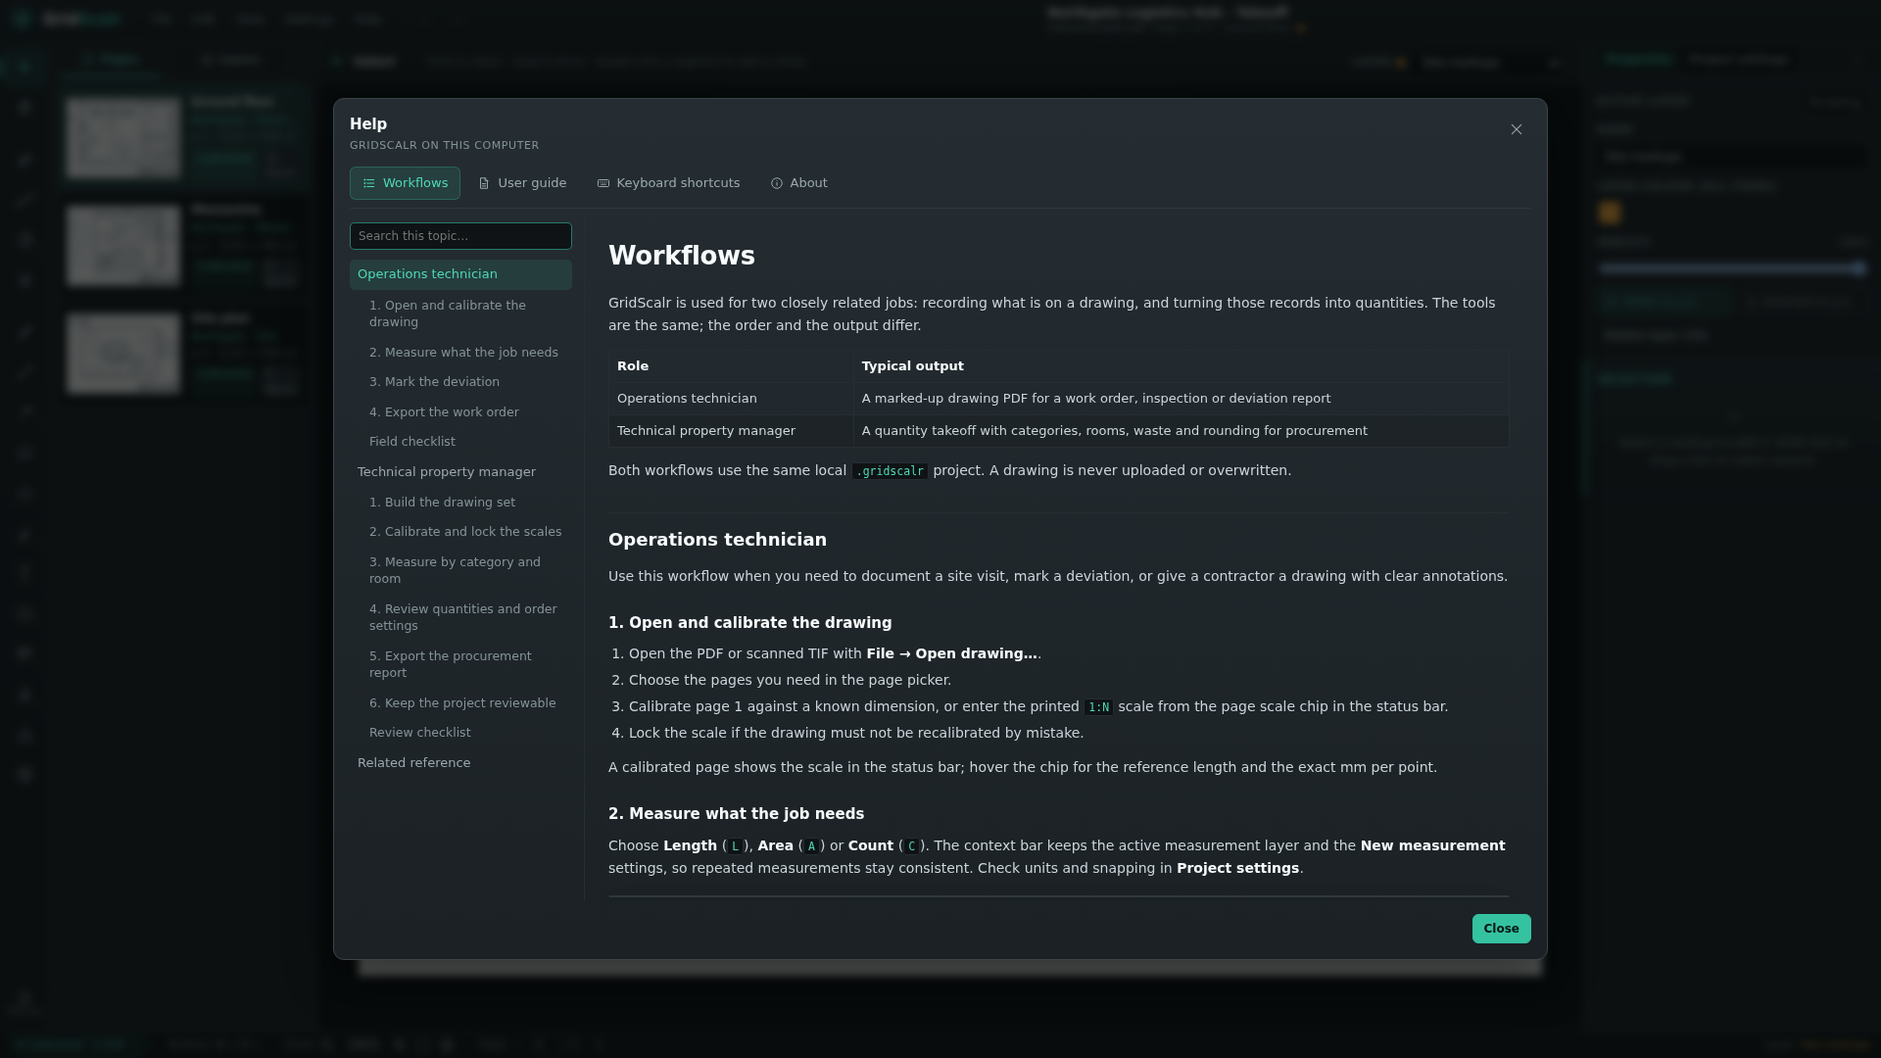
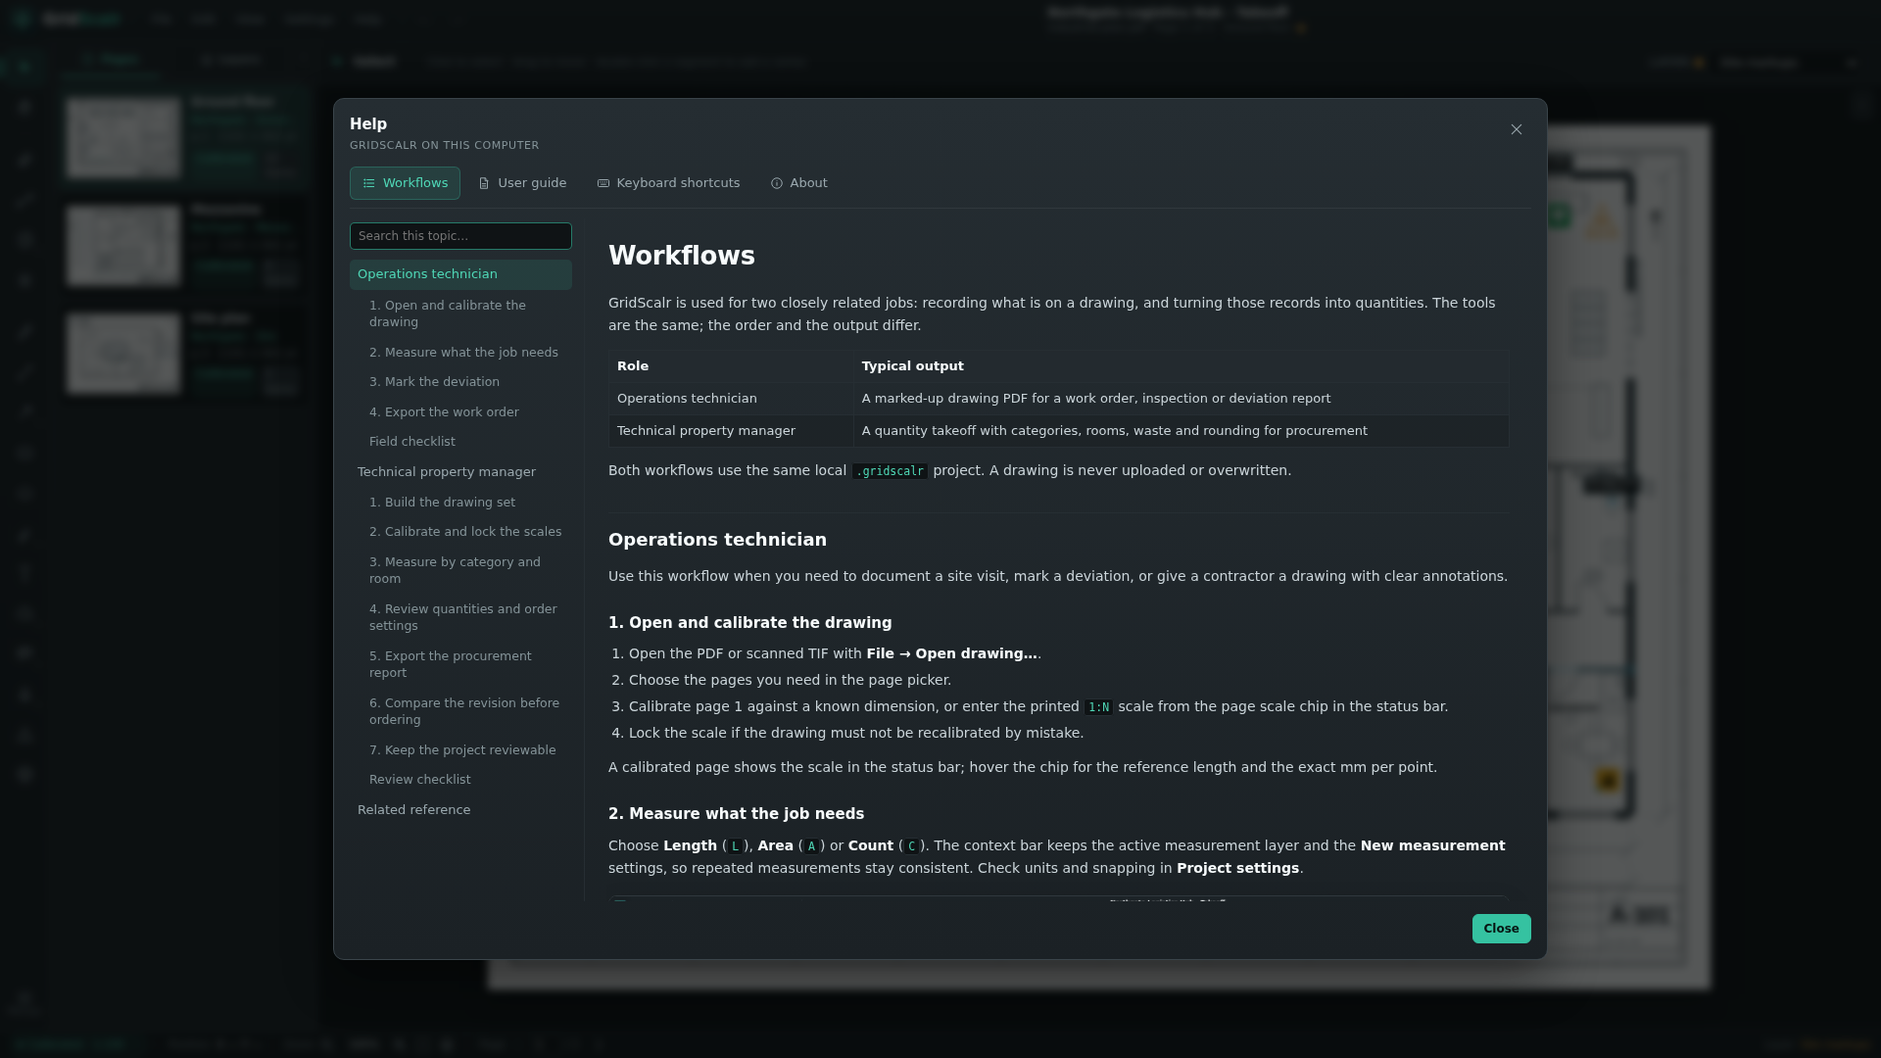
docs: document revision comparison and refresh screenshots

Changed region(s): [[0.1875, 0.0917, 1.0, 0.9472], [0.1875, 0.6417, 0.2812, 0.7639]]

diff --git a/AGENTS.md b/AGENTS.md
@@ -8,7 +8,7 @@ Persistent working instructions for agents and maintainers of GridScalr. Read th
 - Frontend: TypeScript, HTML5 Canvas, PDF.js, Vite. No UI framework.
 - Desktop shell: Rust/Tauri 2.
 - Repository: `https://github.com/MajorJohnDoe/gridscalr` (public).
-- Current app version: `0.7.3`.
+- Current app version: `0.8.0`.
 - Current project-file schema: `16`.
 - Milestones 1–5 are complete. Milestone 2A added categories, rooms, the count tool, deduction areas, the quantities panel, and measurement bulk edits. Milestone 2B added waste, rounding, order quantities, and quantity CSV/PDF reports. Milestone 3A added quick areas, manual scale, per-page scale locks, and markup snapping. Milestone 3B added the drawing export dialog with page ranges, crop areas, layer selection, labels, calibration, and a legend. Milestone 4 added embedded PNG/JPEG images, background and annotation modes, image handles, opacity, rotation, and image-aware PDF export. Milestone 5 added scanned TIF import as lossless CCITT G3/G4 pages, multiple source documents per project, append-only page numbering, and schema v6.
 
@@ -179,6 +179,7 @@ src/app/App.ts             app wiring, file flows, shortcuts
 src/app/exportFlows.ts     CSV, XLSX, PDF, PNG and JSON export orchestration
 src/canvas/CanvasView.ts   rendering, hit testing, inline editing, resize/rotate, PNG composition
 src/canvas/viewport.ts     pure page/screen transforms, fit, zoom and split-view synchronization
+src/compare/               session reference loading, item matching and revision diff
 src/canvas/geometry.ts     crop, handle, rotation and colour helpers
 src/canvas/selectionHandles.ts selection and rotation handles
 src/canvas/annotationDraw.ts callout, stamp, cloud-label and endpoint drawing
@@ -195,6 +196,7 @@ src/pdf/pdfRenderer.ts     PDF.js lifecycle and progressive page rendering
 src/pdf/thumbnails.ts      on-demand, cached page previews for the Pages panel
 src/pdf/pdfExport.ts       flattened vector PDF export
 src/pdf/reportPdf.ts       print-friendly A4 quantity report
+src/pdf/comparePdf.ts      side-by-side comparison PDF with visuals and diff tables
 src/report/                pure report model, shared table rows, CSV and XLSX serialization
 src/ui/                    shell, top menu, sidebar, page/layer lists, inspector, dialogs, status bar
 src/styles/help.css        help dialog, search, TOC and image lightbox
@@ -211,7 +213,8 @@ src/ui/itemIcon.ts         icon lookup shared by Layers and Markups
 src/ui/shortcuts.json      single source for tool and application shortcuts
 src/ui/shortcuts.ts        typed shortcut maps and platform formatting
 src/ui/statusBar.ts        page scale menu, cursor position and layer status
-src/ui/splitView.ts        synchronized read-only reference pane and divider
+src/ui/splitView.ts        synchronized read-only reference pane, comparison mode and divider
+src/ui/comparePanel.ts     revision summary, filters, difference list and controls
 src/ui/welcome.ts          empty-project welcome screen and recent files
 src/ui/pageImportDialog.ts page picker with previews for PDF/TIF import
 src/ui/topMenu.ts          File/Edit/View/Settings/Help menu and keyboard navigation
@@ -257,7 +260,7 @@ When adding a layer or item operation, put lock and visibility semantics in `src
 
 ## Testing and fixtures
 
-- `npm test -- --run` runs the Vitest suite, including viewport math and XLSX package generation.
+- `npm test -- --run` runs the Vitest suite, including viewport math, revision matching and XLSX package generation.
 - `npm run test:ui` runs the Playwright smoke test against the browser fallback.
 - `npm run test:canvas` runs pointer-level canvas regressions for draw, resize, rotate, text, hidden/locked items, crop and split view.
 - `npm run bench:history` runs the synthetic undo/history benchmark. Use `GRIDSCALR_BENCH_ITEMS=5000` for a larger project.
@@ -287,6 +290,7 @@ When adding a layer or item operation, put lock and visibility semantics in `src
 - **0.7.2:** complete — new application icon (measured area on a gridded plate), a regenerated demo project on schema 14, a public README, MIT license and third-party notices, and the community files. No schema change; the schema remains v14.
 - **0.7.3:** complete — synchronized read-only split view, a shared quantity/markup row model, and a six-sheet XLSX quantity workbook. The documentation now reflects schema 16. No schema change; the schema remains v16.
 - **0.7.1:** complete — the right panel gains **Properties** and **Project settings** buttons plus a restore tab when collapsed, the duplicate measurement units moved out of Properties, the layer explanation removed, and the redundant image and Canvas buttons removed from the context bar. Includes the 0.7.0 work: stamp and symbol corner resizing, schema 14 with optional `symbolSize` (missing means 24 pt), context-aware markup focus zoom, the page scale in the status bar, Created/Modified Markups columns with bulk actions, range selection, status/category/room context-menu actions, and the symbol library opened from the tool rail only.
+- **0.8.0:** complete — session-only revision comparison with side-by-side and overlay views, a markup difference list, warnings and a comparison PDF. No schema change; the schema remains v16.
 
 Update the status in `docs/roadmap.md` when a milestone is completed.
 

diff --git a/docs/architecture.md b/docs/architecture.md
@@ -9,6 +9,8 @@ writes and path checks. There is no server, database or background service.
 src/
   app/App.ts             application wiring, file flows, shortcuts
   app/exportFlows.ts     CSV, XLSX, PDF, PNG and JSON export orchestration
+  compare/referenceSession.ts session-only reference project, renderer and source paths
+  compare/revisionDiff.ts pure item matching and added/removed/changed classification
   canvas/CanvasView.ts   canvas rendering, hit testing, inline editing, resize/rotate, PNG compositing
   canvas/viewport.ts     pure page/screen transforms, fit, zoom and split-view synchronization
   canvas/geometry.ts     crop, handle, rotation and colour helpers
@@ -27,6 +29,7 @@ src/
   pdf/thumbnails.ts      lazily rendered, cached page previews for the Pages panel
   pdf/pdfExport.ts       flattened vector PDF export with embedded text fonts
   pdf/reportPdf.ts       print-friendly A4 quantity report built with pdf-lib
+  pdf/comparePdf.ts      side-by-side revision comparison PDF with visuals and diff tables
   report/reportModel.ts  pure quantity report model shared by CSV, XLSX and PDF
   report/rows.ts         shared quantity and markup table rows
   report/csv.ts          quantity CSV serialization with BOM and metadata
@@ -47,7 +50,8 @@ src/
   ui/shortcuts.json      single source for tool and application shortcuts
   ui/shortcuts.ts        typed shortcut maps and platform formatting
   ui/statusBar.ts        page scale menu, cursor position and layer status
-  ui/splitView.ts        synchronized read-only reference pane and divider
+  ui/splitView.ts        synchronized read-only reference pane, comparison mode and divider
+  ui/comparePanel.ts     revision summary, filters, difference list and comparison controls
   ui/welcome.ts          empty-project welcome screen and recent files
   ui/pageImportDialog.ts page picker with previews for PDF/TIF import
   ui/topMenu.ts          File/Edit/View/Settings/Help menu model and keyboard navigation
@@ -96,12 +100,13 @@ Key design choices:
 - **Snapshot history.** Store mutations clone the project before applying changes, giving undo/redo without mutable shared state.
 - **One scene, two viewports.** The primary canvas follows the store's viewport. The split reference pane reuses the same renderer and scene with a read-only canvas and a viewport centred on the primary pane, so pan, zoom and page changes stay synchronized without a second editing path.
 - **Derived exports share one row model.** Quantity and markup tables are built once in `src/report/rows.ts` and serialized to CSV and XLSX from the same cells. The workbook never stores a second copy of the takeoff.
+- **Comparison is session-only.** A reference project opens in its own renderer and its own read-only canvas scene. Matching uses item ids first, then geometry, then the nearest same-kind item inside a move tolerance. The current store, undo history and source drawings are never replaced by the reference.
 - **Native I/O, portable format.** Rust commands perform atomic writes; the project file records both an absolute and relative PDF path plus a SHA-256 checksum.
 - **Tauri prototype freezing stays off.** `@pdf-lib/fontkit` assigns to a prototype property inherited from `Object.prototype`; Tauri's `freezePrototype` makes that assignment throw and prevents the window from starting. GridScalr does not execute untrusted JavaScript, so this hardening is left disabled.
 
 ## Testing and fixtures
 
-- `npm test` runs the Vitest suite for the model, project files, hit testing, TIFF parsing, PDF/XLSX export, viewport math, Markdown, help images, the demo project, canvas geometry and autosave.
+- `npm test` runs the Vitest suite for the model, project files, hit testing, TIFF parsing, PDF/XLSX export, revision matching, viewport math, Markdown, help images, the demo project, canvas geometry and autosave.
 - `npm run test:ui` and `npm run test:canvas` drive the browser fallback with Playwright.
 - `npm run bench:history` builds a synthetic project for undo/history timing (`GRIDSCALR_BENCH_ITEMS=5000` for a larger one).
 - `fixtures/industrial-plan.pdf` is generated by `npm run fixture`; `fixtures/demo-project.gridscalr` by `npm run docs:demo`.

diff --git a/docs/roadmap.md b/docs/roadmap.md
@@ -6,7 +6,7 @@ documents from the implementation period live in
 [`docs/plan/archive/`](plan/archive/README.md); they are historical and written in
 Swedish.
 
-Current version: **0.7.3** · Project-file schema: **16**
+Current version: **0.8.0** · Project-file schema: **16**
 
 ## Product principles
 
@@ -43,27 +43,26 @@ milestone:
 | 0.6 | Built-in vector facility symbols, inspection statuses, Markups symbol and status views | Complete | v13 |
 | 0.7 | Docked Markups list with saved views, grouping and filters; stamp and symbol corner resizing; context-aware focus zoom; new app icon | Complete | v14 |
 | 0.7.3 | Synchronized read-only split view and XLSX quantity workbook; schema 16 docs sync | Complete | v16 |
+| 0.8.0 | Session-only revision comparison with overlay and side-by-side views, markup diff and comparison PDF | Complete | v16 |
 
 Schema history and migration rules are documented in
 [`project-file.md`](project-file.md).
 
 ## Next
 
-There is no committed milestone after 0.7.3. The candidates below are ordered by
+There is no committed milestone after 0.8.0. The candidates below are ordered by
 expected value, not scheduled:
 
-1. **Revision comparison** with a session-only reference project, overlay and
-   side-by-side views, and a list of added, removed and changed markups.
-2. **OCR and full-text search** for scanned pages, built on the PDF.js text layer
+1. **OCR and full-text search** for scanned pages, built on the PDF.js text layer
    for digital drawings and a local OCR index for scans.
-3. **More measurement types** such as radius, diameter, arc, angle, slope and
+2. **More measurement types** such as radius, diameter, arc, angle, slope and
    volume, with the quantity and unit model that each dimension needs.
-4. **Custom count types** and count quantities greater than one piece per object.
-5. **PDF vector geometry snapping** as a separate spike. It needs extraction and
+3. **Custom count types** and count quantities greater than one piece per object.
+4. **Semantic PDF vector comparison** as a separate spike. It needs extraction and
    indexing of PDF operators and must not block other work.
-6. **A TIF fallback decoder** for LZW/Deflate, greyscale, colour and JPEG-in-TIFF
+5. **A TIF fallback decoder** for LZW/Deflate, greyscale, colour and JPEG-in-TIFF
    scans, if users need them often enough to justify the dependency.
-7. **macOS and Linux release builds** next to the Windows installers.
+6. **macOS and Linux release builds** next to the Windows installers.
 
 ## Deferred by design
 
@@ -92,7 +91,7 @@ full list.
 | Windows code signing | Not purchased. Installers are unsigned; the README explains how to verify SHA-256 checksums. |
 | External image assets | Deferred until embedded project files become too large in practice. |
 | TIF codecs beyond CCITT G3/G4 | Deferred until there is demand; would need a decoding fallback. |
-| Revision comparison scope | Start with visual overlay, side-by-side and markup diff. Semantic PDF vector diff is a separate spike. |
+| Revision comparison scope | Shipped with visual overlay, side-by-side and a markup diff. Semantic PDF vector diff is a separate spike. |
 | OCR engine | A local WASM OCR dependency is the leading option; not yet committed. |
 | PDF vector geometry snapping | A candidate spike, not scheduled. |
 | macOS and Linux release pipelines | Buildable from source; no automated artifacts yet. |

diff --git a/README.md b/README.md
@@ -53,6 +53,9 @@ before the first launch. Linux and macOS builds can be produced from source.
   report.
 - Open a synchronized split view to keep a second, read-only reference of the
   same page beside the primary canvas. Pan, zoom and page changes stay in step.
+- Compare a saved revision in side-by-side or overlay mode, review changed,
+  added and removed markups, and export a comparison PDF without touching either
+  source drawing.
 - Export the drawing as a flattened PDF with page ranges, crops, visible layers,
   labels and a legend, plus markups CSV, project JSON and PNG.
 - Undo/redo, autosave recovery, recent files, and the user guide bundled under
@@ -84,8 +87,14 @@ calculated from item data.
 | ![Primary canvas and a read-only reference pane showing the same plan at the same pan and zoom](docs/screenshots/split-view.png) | **Procurement workbook.** Export summary, category, room, page, markup and source-notes sheets from the same takeoff data. |
 | **Compare while you work.** The reference pane follows every pan, zoom and page change and never edits the project. | **No second source of truth.** The XLSX workbook is generated on demand from the measurements. |
 
-More screens, including the Markups table, the symbol library and the in-app
-workflows, are captured in [docs/screenshots](docs/screenshots).
+| Revision comparison | Differences at a glance |
+| --- | --- |
+| ![Current plan overlaid with a reference revision and a comparison panel listing changed, added and removed items](docs/screenshots/compare.png) | **Review before you act.** Switch between side-by-side and overlay, follow warnings, and jump to every changed item. |
+| **No merge, no source changes.** The reference stays session-only and both drawings remain read-only. | **Export the review.** Write a comparison PDF with visuals, warnings and the difference table. |
+
+More screens, including the Markups table, the symbol library, revision
+comparison and the in-app workflows, are captured in
+[docs/screenshots](docs/screenshots).
 
 ## Requirements
 
@@ -185,7 +194,7 @@ published here, compare its SHA-256 hash with `SHA256SUMS.txt` on the release
 page:
 
 ```powershell
-Get-FileHash .\GridScalr_0.7.3_x64-setup.exe -Algorithm SHA256
+Get-FileHash .\GridScalr_0.8.0_x64-setup.exe -Algorithm SHA256
 ```
 
 Unsigned builds also trigger more false positives in some antivirus engines. If a

diff --git a/docs/workflows.md b/docs/workflows.md
@@ -117,7 +117,18 @@ Use **Quantities CSV**, **Quantities to Excel…** or **Quantity PDF** in the Qu
 
 Reports always cover every page and every category. Dialog filters only affect the live summary, not the exported report.
 
-### 6. Keep the project reviewable
+### 6. Compare the revision before ordering
+
+When the consultant sends a revised drawing, keep the current takeoff open and choose **File → Compare revisions…**. Select the previous `.gridscalr` file. The reference opens as a read-only session next to the current project.
+
+- Use **Side by side** to check the geometry, or **Overlay** and the opacity slider to line up the revisions.
+- Review **Changed**, **Added** and **Removed** in the panel. Click a row to jump to the item.
+- Read the warnings for page-count, drawing-name and scale differences before trusting the comparison.
+- Choose **Export PDF** for a review file with page visuals, warnings and the difference table.
+
+The reference is not merged and neither drawing is modified. Close the comparison when the review is done, or save the current project as the new working revision.
+
+### 7. Keep the project reviewable
 
 Use **View → Markups list…**, the **Markups** button at the bottom of the tool rail, or `Ctrl/Cmd+L` to search, select and navigate every item across all pages. Clicking a row zooms to that item with 25 % breathing room while keeping the whole sheet as the outer limit. The docked panel stays open while you jump between sheets and is the quickest way to check that a room or category has not been missed.
 
@@ -137,7 +148,8 @@ Save the `.gridscalr` project next to the drawing set. If the project or drawing
 - Deductions are inside the correct room and category.
 - Waste and rounding are deliberate.
 - Hidden content is intentional.
-- The exported CSV or PDF matches the reviewed quantities.
+- The exported CSV, Excel workbook or PDF matches the reviewed quantities.
+- When comparing revisions, the diff list and comparison PDF were checked before the new quantities were ordered.
 
 ## Related reference
 

diff --git a/docs/user-guide.md b/docs/user-guide.md
@@ -37,6 +37,20 @@ Panels remember their width, height and collapsed state between sessions.
 
 The reference pane is for comparison only: selection, editing, layers and undo belong to the primary canvas. Closing split view does not change the drawing, the project or the undo history, and the split layout is not stored in the project file.
 
+## Compare revisions
+
+**File → Compare revisions…** opens another `.gridscalr` file as a session reference. The reference is never merged into the current project, and neither source drawing is modified. The comparison appears in a panel beside the canvas:
+
+- **Side by side** shows the current and reference page next to each other with the same pan, zoom and page.
+- **Overlay** stacks the reference over the current drawing. Use **Opacity** to make the reference lighter or heavier; white page areas are transparent in this mode.
+- **Changed**, **Added** and **Removed** count the differences. The list can be filtered to changes only, one status, or every item, including unchanged items.
+- Click a row to jump to that page and item. A reference-only item keeps its position on the reference page even when it no longer exists in the current project.
+- Warnings call out different page counts, drawing names and page scales.
+
+The comparison compares measurements, drawings, symbols and their properties. The visual pages show the source drawings; the **Differences** table lists the markup changes. It is not a semantic diff of the PDF's raw vector operators. Edits made while comparing refresh the list after a short pause, and **Refresh** forces it immediately.
+
+**Export PDF** writes `<project>-comparison.pdf` with a summary, page-by-page visuals, warnings and the difference table. The export refuses to overwrite either project's source drawings. Close the comparison with **Close comparison**; the split-view layout is restored if it was open before.
+
 ## Open drawings and projects
 
 ### New project

diff --git a/docs/limitations.md b/docs/limitations.md
@@ -15,4 +15,6 @@
 - The symbol library is built in and vector-only: custom symbol uploads and symbol quantities in the procurement report are not supported yet. Symbols can be resized by dragging a corner. The pictograms are original filled-vector interpretations, not certified SS-EN ISO 7010 reproductions.
 - Quantity reports are available as CSV, XLSX and PDF. CSV uses comma separators because that is the documented interchange format, so Excel on a locale with another list separator may need an import step; the XLSX workbook does not have that problem.
 - The split reference pane is read-only and always shows the same page as the primary canvas. Independent page navigation in the two panes is not supported.
-- Revision comparison and OCR/full-text search are not implemented yet.
+- Revision comparison compares measurement and markup data plus the rendered source pages. It does not perform a semantic diff of the PDF's raw vector operators. Comparison visual pages show the source drawings; markup changes are listed in the difference table.
+- A comparison opens the reference project's source drawings as well as the project file. If those drawings have moved, the reference cannot be loaded until they are restored or the project is reopened from its original location.
+- OCR and full-text search are not implemented yet.

diff --git a/docs/releasing.md b/docs/releasing.md
@@ -71,26 +71,26 @@ download. The README explains why the build is not code-signed.
 ## 6. Publish
 
 ```bash
-git tag v0.7.3
-git push origin v0.7.3
-gh release create v0.7.3 \
+git tag v0.8.0
+git push origin v0.8.0
+gh release create v0.8.0 \
   --repo MajorJohnDoe/gridscalr \
-  --title "GridScalr 0.7.3" \
+  --title "GridScalr 0.8.0" \
   --notes-file release-notes.md \
   path/to/gridscalr.exe \
-  path/to/GridScalr_0.7.3_x64-setup.exe \
-  path/to/GridScalr_0.7.3_x64_en-US.msi \
+  path/to/GridScalr_0.8.0_x64-setup.exe \
+  path/to/GridScalr_0.8.0_x64_en-US.msi \
   path/to/SHA256SUMS.txt
 ```
 
-Mark the newest release as latest (`gh release edit v0.7.3 --latest`) if an older
+Mark the newest release as latest (`gh release edit v0.8.0 --latest`) if an older
 tag was published afterwards.
 
 ## 7. Verify
 
 ```bash
 gh release list --repo MajorJohnDoe/gridscalr
-gh release view v0.7.3 --repo MajorJohnDoe/gridscalr
+gh release view v0.8.0 --repo MajorJohnDoe/gridscalr
 ```
 
 Open the release page, check that the README download link resolves to it, and
